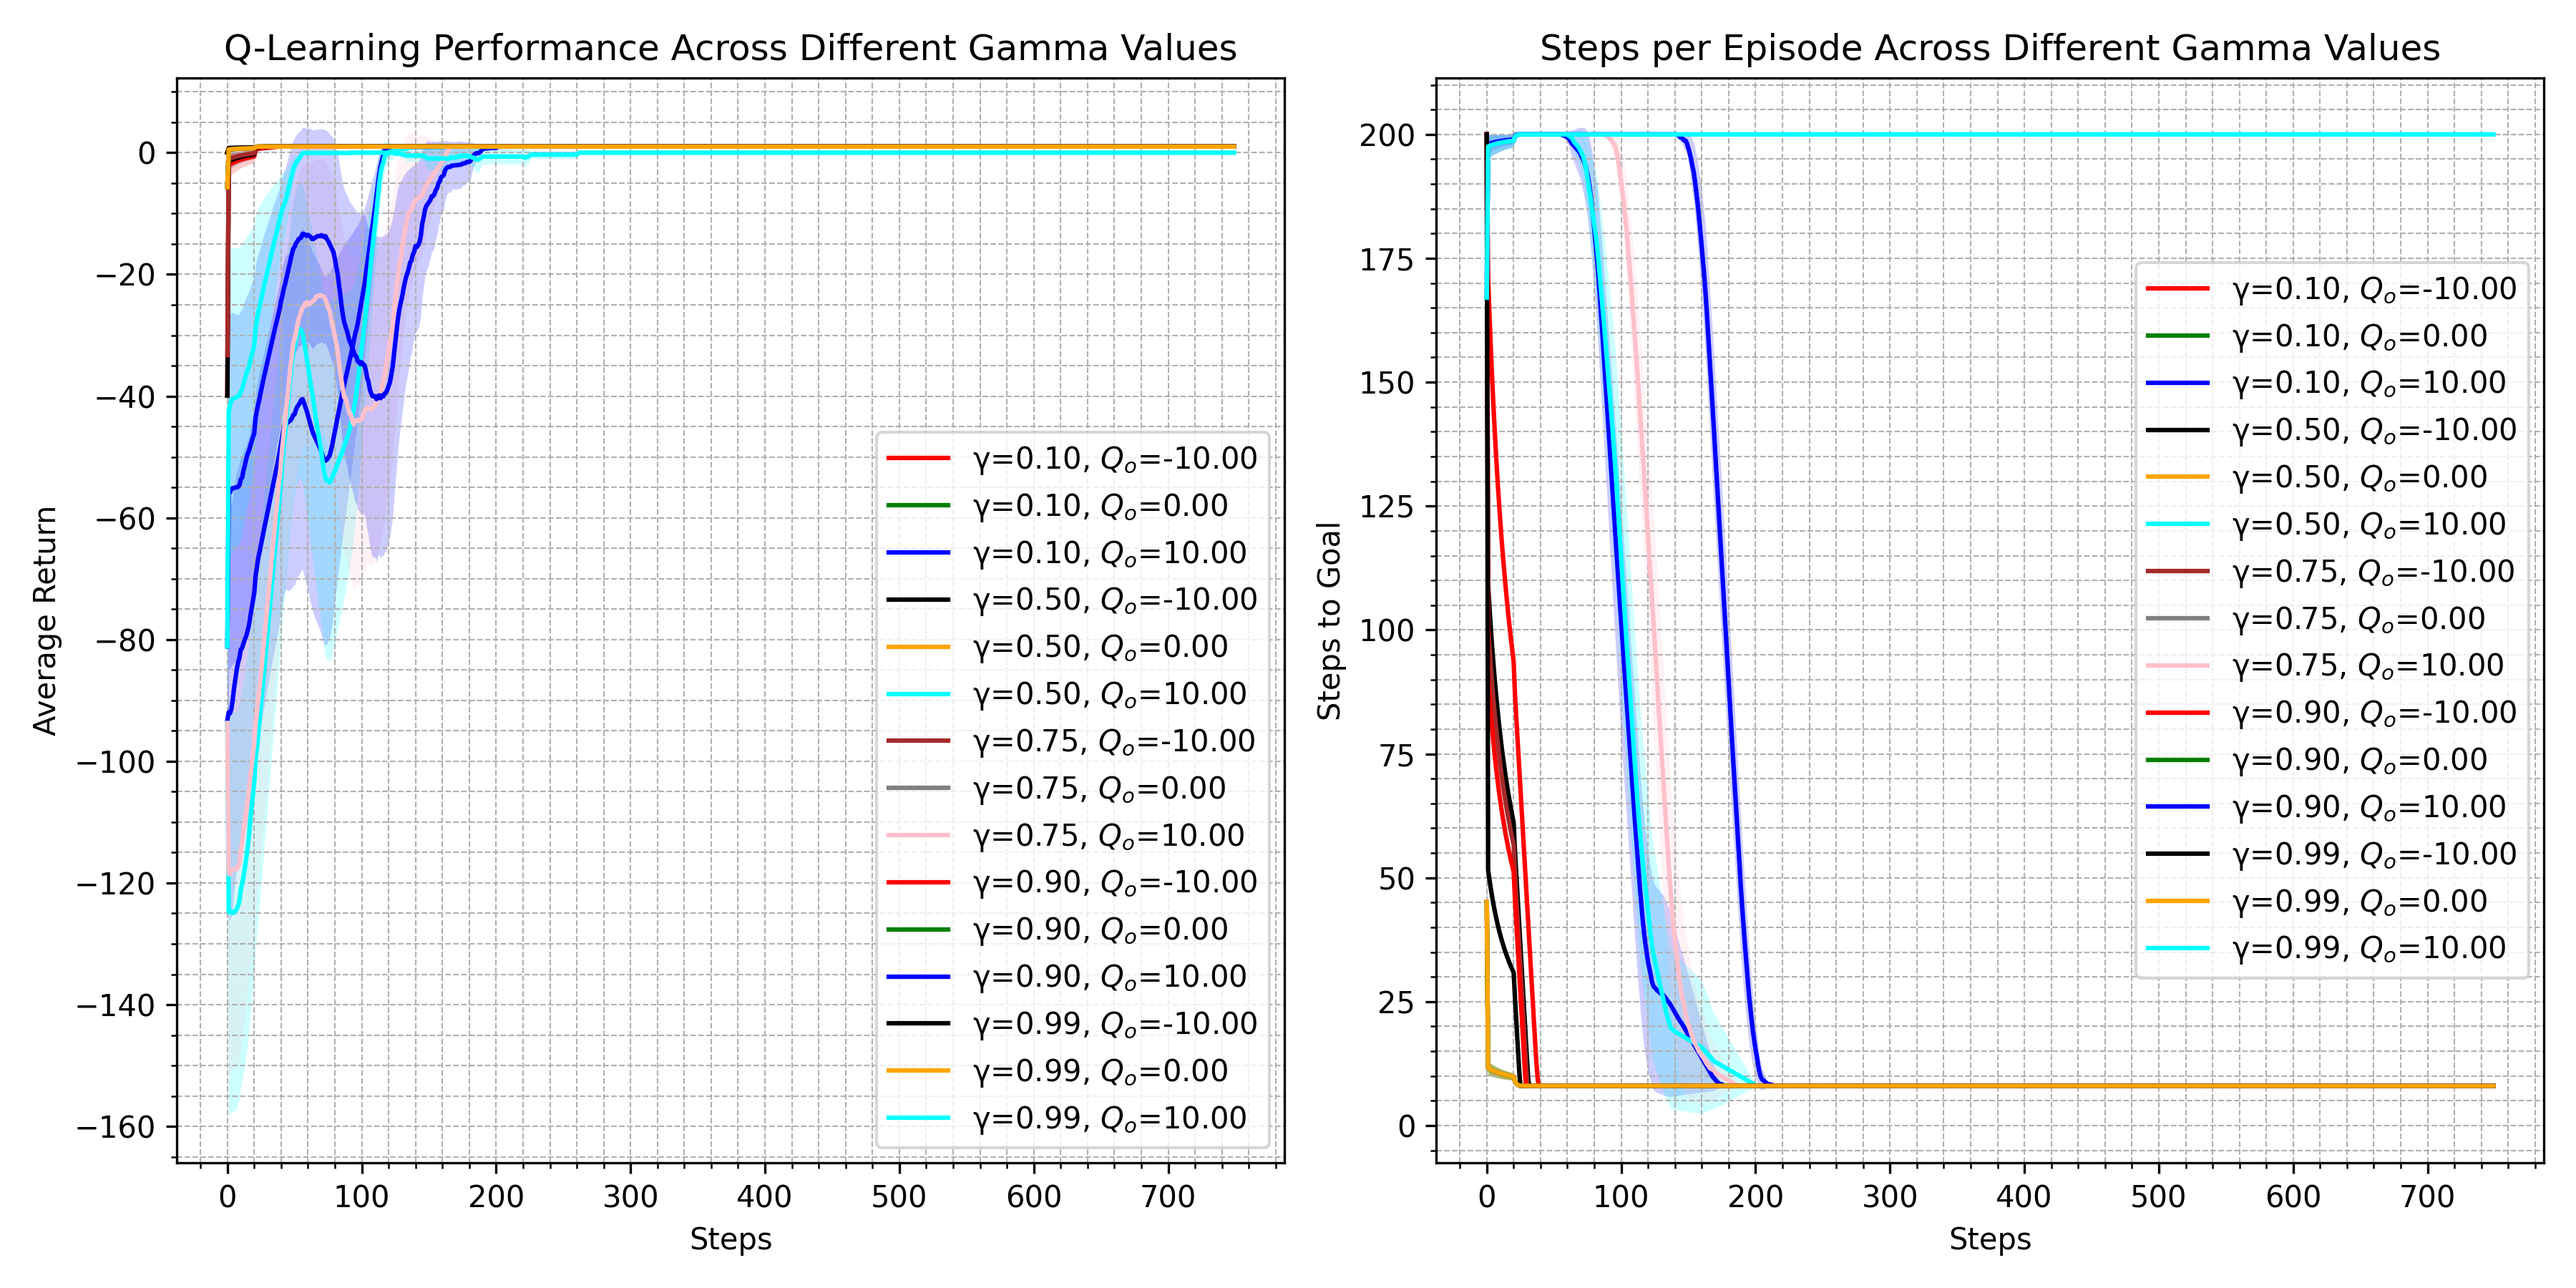
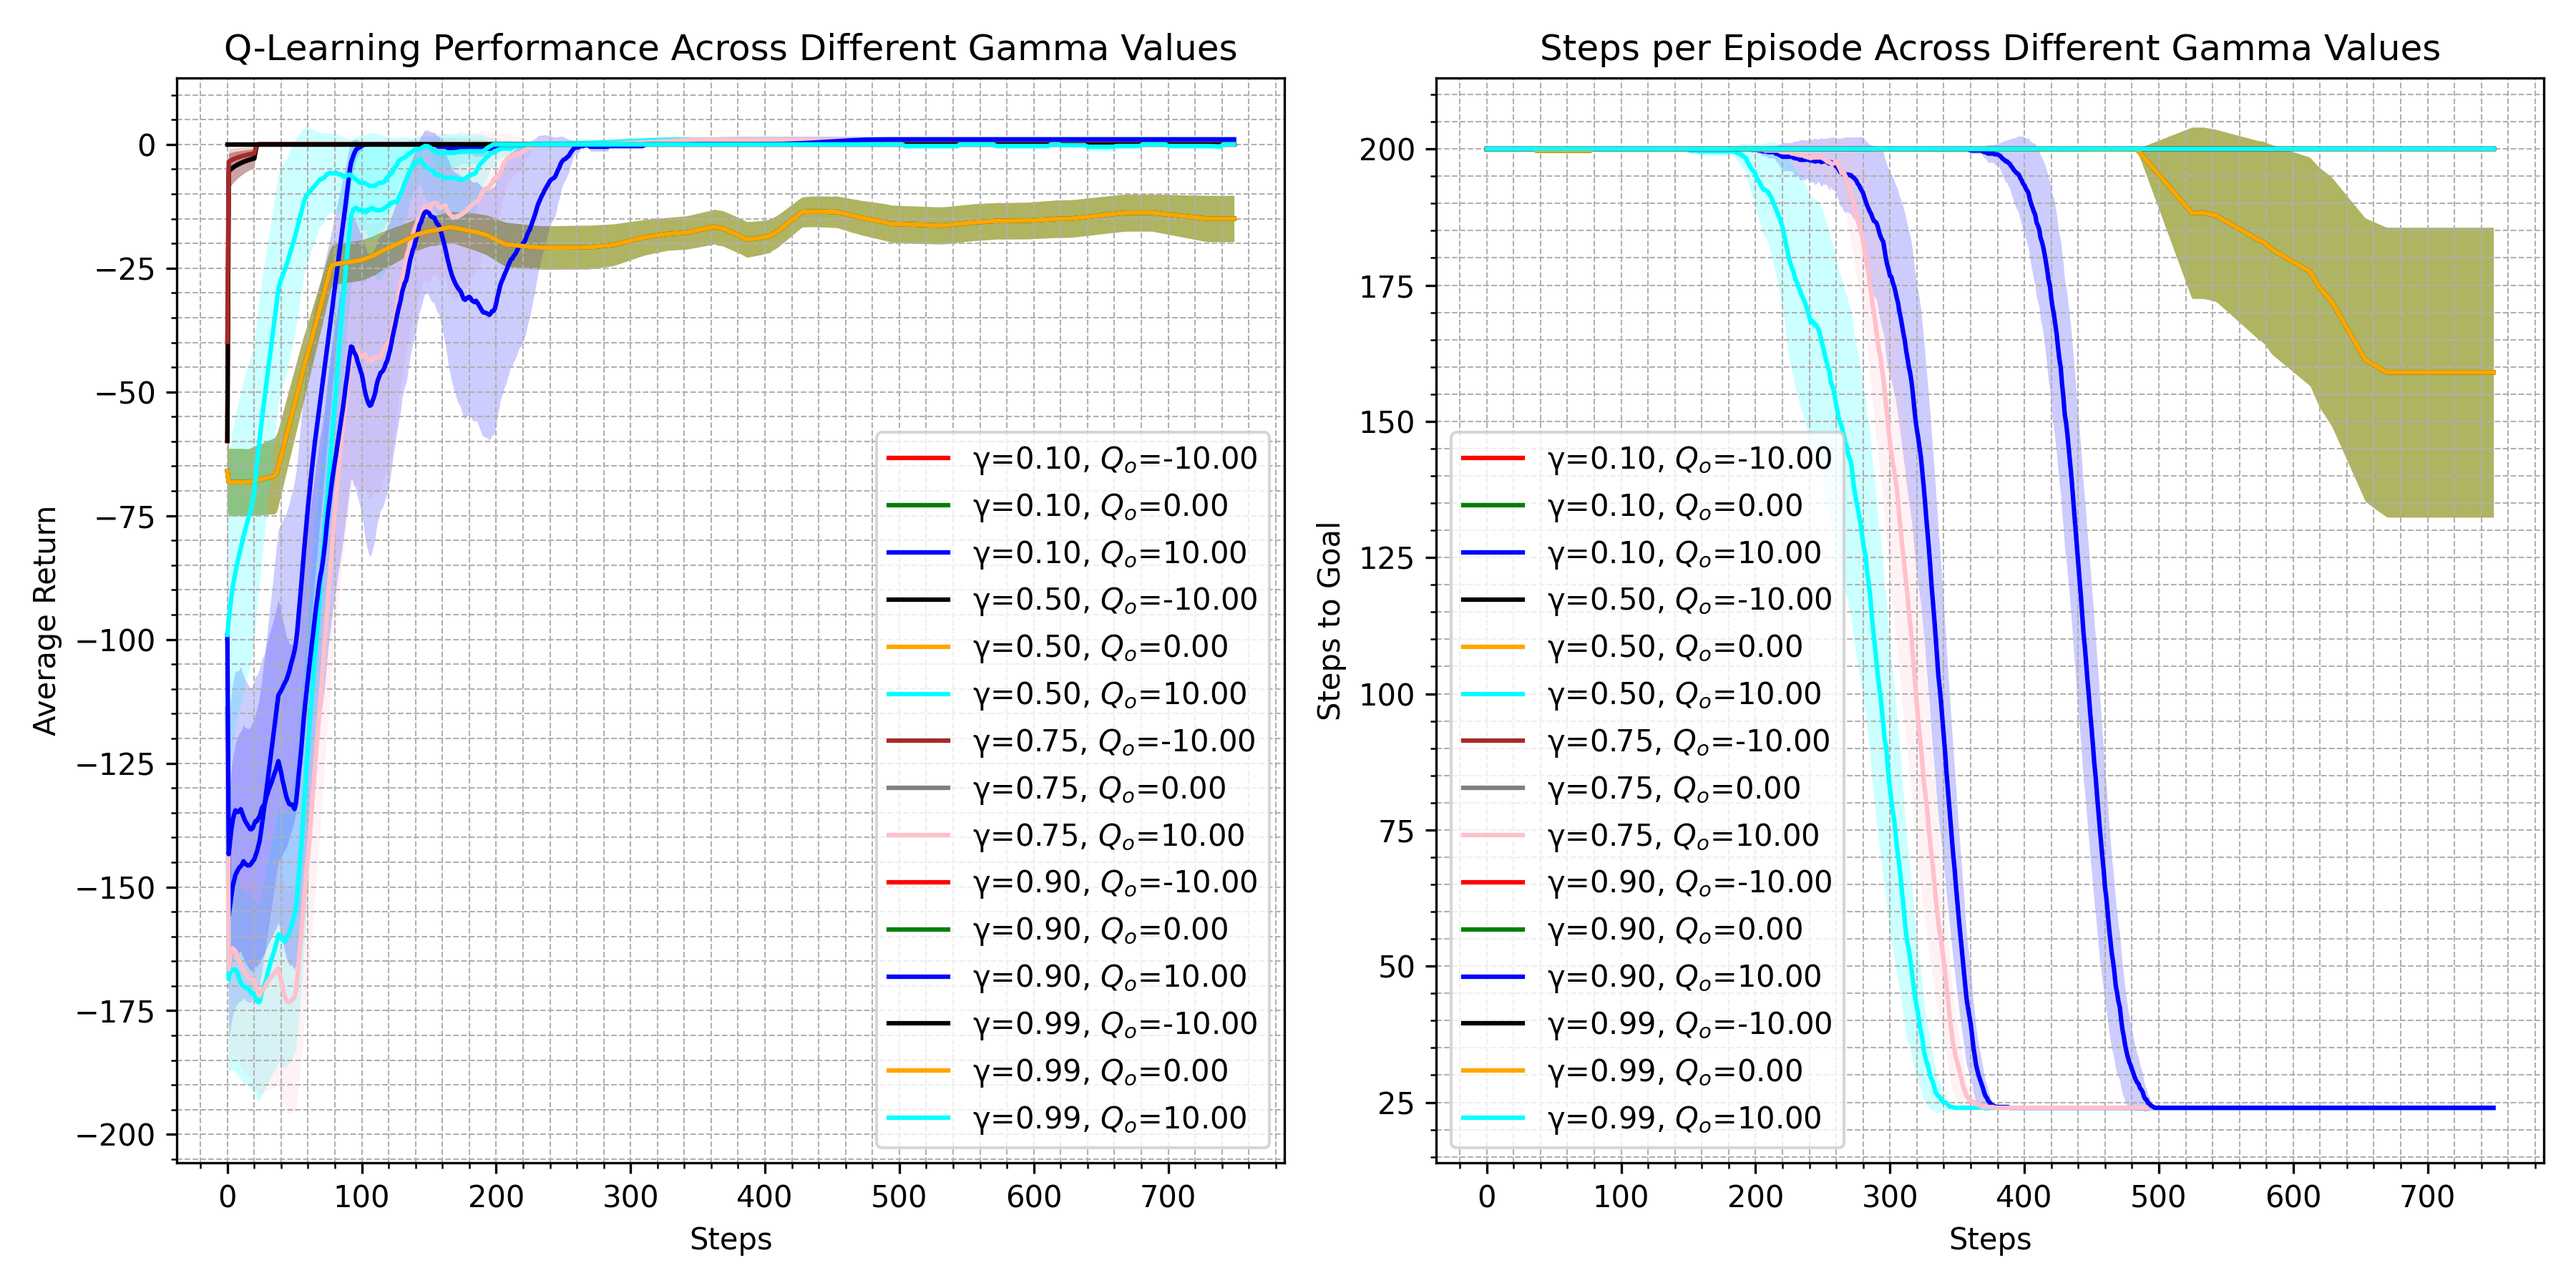
good results

diff --git a/experiments/adaptive_gamma_q_learning.py b/experiments/adaptive_gamma_q_learning.py
@@ -6,11 +6,17 @@ import matplotlib.pyplot as plt
 np.set_printoptions(precision=3)
 
 obstacle_map = [
-    "00000",
-    "00000",
-    "00000",
-    "00000",
-    "00000",
+    "00000100000",
+    "02222100022",
+    "00000120002",
+    "02220002020",
+    "00000100000",
+    "11011111101",
+    "02000100200",
+    "00220102020",
+    "00000100000",
+    "00220002002",
+    "00000100002",
 ]
 
 length = len(obstacle_map)
@@ -136,7 +142,7 @@ eps = 1.0
 max_steps = 75000
 eval_steps = 100
 
-init_values = [10.0]#[-10.0, 0.0, 10.0]
+init_values = [-10.0, 0.0, 10.0]
 gamma_values = [0.1, 0.5, 0.75, 0.9, 0.99]
 seeds = np.arange(30)
 

diff --git a/experiments/q_learning.py b/experiments/q_learning.py
@@ -6,11 +6,17 @@ import matplotlib.pyplot as plt
 np.set_printoptions(precision=3)
 
 obstacle_map = [
-    "00000",
-    "00000",
-    "00000",
-    "00000",
-    "00000",
+    "00000100000",
+    "02222100022",
+    "00000120002",
+    "02220002020",
+    "00000100000",
+    "11011111101",
+    "02000100200",
+    "00220102020",
+    "00000100000",
+    "00220002002",
+    "00000100002",
 ]
 
 length = len(obstacle_map)
